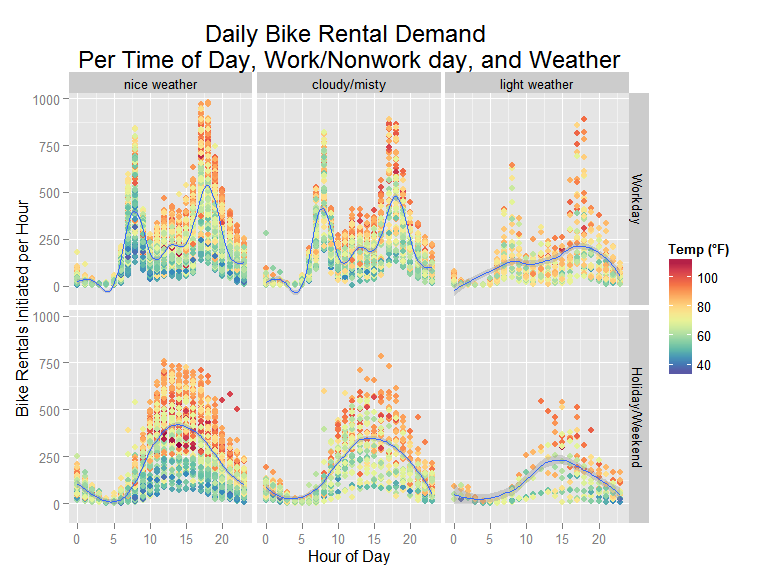
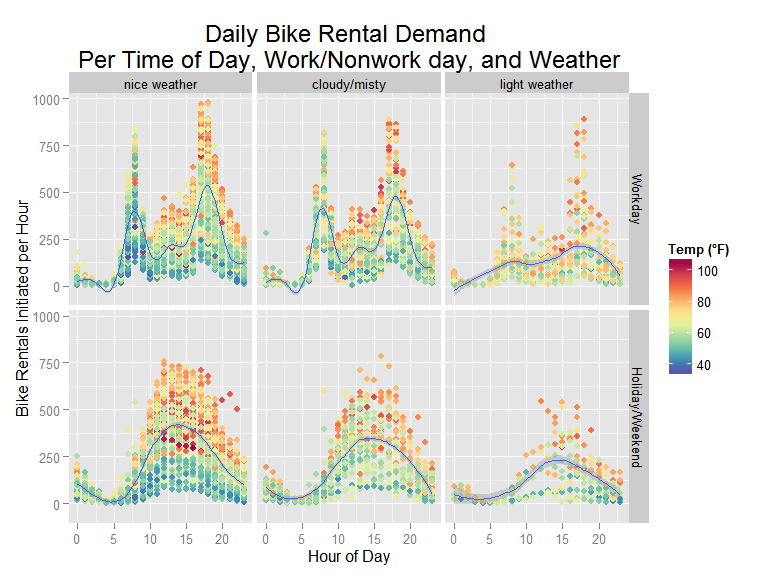
lots of stuff, completed first submission.

diff --git a/BikeShareAnalysis.md b/BikeShareAnalysis.md
@@ -22,7 +22,8 @@ library(ggplot2)
 library(ggdendro)
 library(lubridate)
 library(plyr); library(dplyr)
-source("myplclust.R")
+library(randomForest)
+library(scales)
 
 sessionInfo()
 ```
@@ -43,16 +44,17 @@ sessionInfo()
 ## [1] stats     graphics  grDevices utils     datasets  methods   base     
 ## 
 ## other attached packages:
-## [1] dplyr_0.4.1     plyr_1.8.1      lubridate_1.3.3 ggdendro_0.1-15
-## [5] ggplot2_1.0.1  
+## [1] scales_0.2.4        randomForest_4.6-10 dplyr_0.4.1        
+## [4] plyr_1.8.1          lubridate_1.3.3     ggdendro_0.1-15    
+## [7] ggplot2_1.0.1      
 ## 
 ## loaded via a namespace (and not attached):
 ##  [1] assertthat_0.1   colorspace_1.2-4 DBI_0.3.1        digest_0.6.8    
 ##  [5] evaluate_0.7     formatR_1.0      grid_3.1.3       gtable_0.1.2    
 ##  [9] htmltools_0.2.6  knitr_1.10.5     magrittr_1.5     MASS_7.3-39     
 ## [13] memoise_0.2.1    munsell_0.4.2    parallel_3.1.3   proto_0.3-10    
-## [17] Rcpp_0.11.5      reshape2_1.4.1   rmarkdown_0.3.11 scales_0.2.4    
-## [21] stringi_0.4-1    stringr_1.0.0    tools_3.1.3      yaml_2.1.13
+## [17] Rcpp_0.11.5      reshape2_1.4.1   rmarkdown_0.3.11 stringi_0.4-1   
+## [21] stringr_1.0.0    tools_3.1.3      yaml_2.1.13
 ```
 
 ```r
@@ -103,8 +105,15 @@ train <- mutate(train,
                 weather = factor(weather,levels=1:4, labels=weatherlabels),
                 dayofweek = factor(weekdays(datetime), levels=daysoftheweek),
                 timeofday = hour(datetime))
-#test <- mutate(test, ...)
-#   TODO: fill out test data later once have solid train dataset
+test <- mutate(test, 
+                datetime = ymd_hms(datetime),
+                season = factor(season, levels=1:4, labels=seasons),
+                holiday = as.logical(holiday),
+                workingday = factor(workingday, levels=c(1,0), 
+                                    labels=c("Workday","Holiday/Weekend")),
+                weather = factor(weather,levels=1:4, labels=weatherlabels),
+                dayofweek = factor(weekdays(datetime), levels=daysoftheweek),
+                timeofday = hour(datetime))
 ```
 
 Data only shows a single heavy weather point. In the midst of several light weather points. For graphing purposes, replace with light weather. Implicit assumption: bike rentals during heavy weather will be negligeable. 
@@ -123,7 +132,7 @@ print(which(test$weather == "heavy weather"))
 ```
 
 ```
-## integer(0)
+## [1]  155 3249
 ```
 
 ```r
@@ -217,20 +226,62 @@ train <- mutate(train, atemp=ifelse((atemp < 15) & (temp > 24), temp, atemp))
 test <- mutate(test, atemp=ifelse((atemp < 15) & (temp > 24), temp, atemp))
 ```
 
-It appears wind and humidity are already packaged into the 'feels like' tempurature value. The following analysis neglects temp, wind, and humidity in favor of using atemp. This leaves the weather label, time (hour of the day, day of the week), and holiday label. 
+It appears wind and humidity are already packaged into the 'feels like' tempurature value. The key is to find out how much that matters. 
 
 ## Primary demand drivers
 
+### principal component analysis (PCA)
+
+A principal component analysis (PCA) on the data shows how variation in the input data can be explained by a same-sized set of orthogonal variables. 
+
+
+```r
+tr.inputs <- select(train, datetime:windspeed)
+train.svd <- svd(scale(sapply(tr.inputs, unclass)))
+
+gg <- ggplot() + 
+    geom_bar(aes(x=1:length(train.svd$d), y=train.svd$d^2/sum(train.svd$d^2)),
+             stat="identity",
+             fill="dodgerblue") + 
+    scale_x_discrete(limits=1:length(tr.inputs)) +
+    labs(title="Feature Variance") +
+    labs(x="Orthogonal variables") +
+    labs(y="Proportion of variance explained")
+print(gg)
+```
+
+![](BikeShareAnalysis_files/figure-html/pca-1.png) 
+
+The last eigenvalue (variable 9 above) appears to contribute a negligeable amount of information to the input data. The below plot shows the components of this eigenvalue are tempurature, 'feels like' temperature, and a little of wind and humidity. This is consistent with our earlier exploration. The low eigenvalue here means that at least one of these 4 variables can be completely neglected. 
+
+
+```
+## Warning in loop_apply(n, do.ply): Stacking not well defined when ymin != 0
+```
+
+![](BikeShareAnalysis_files/figure-html/pca.atemp-1.png) 
+
+Finally, exploring the compostion of eigenvalue 1 shows that about 1.5726\times 10^{4}% of the data variation comes from datetime, season, temperature, and a little of windspeed. This means date, time, season, tempurature and to some extent wind are intertwined pieces of information, as one might expect. 
+
+
+```
+## Warning in loop_apply(n, do.ply): Stacking not well defined when ymin != 0
+```
+
+![](BikeShareAnalysis_files/figure-html/pca.season.temp-1.png) 
+
+Due to the broad spread of orgogonal data across a variety of features, an optimal solution will likely include most of the provided data, with the exception of temp/atemp. These two variables provide very little additional information between each other. 
+
 ### Effect of Time of day, weather, and working/non-working days
 
-The below plot shows the effect of time, weather, and work/nonwork days on daily rental counts. The initial idea for this plot came from [this kaggle script post](https://www.kaggle.com/users/993/ben-hamner/bike-sharing-demand/bike-rentals-by-time-and-temperature) by Ben Hamner, which has been greatly expanded here. 
+The below plot shows the effect of time, tempurature, weather, and work/nonwork days on daily rental counts. The initial idea for this plot came from [this kaggle script post](https://www.kaggle.com/users/993/ben-hamner/bike-sharing-demand/bike-rentals-by-time-and-temperature) by Ben Hamner, which has been expanded here. 
 
 
 ```r
 colors.tempurature <- c("#5e4fa2", "#3288bd", "#66c2a5", "#abdda4", "#e6f598",
                         "#fee08b", "#fdae61", "#f46d43", "#d53e4f", "#9e0142")
 
-gg <- ggplot(train, aes(timeofday, count, color=9/5*atemp+32)) +
+gg <- ggplot(train, aes(timeofday, count, color=9/5*temp+32)) +
     facet_grid(workingday ~ weather) +
     geom_point() +
     geom_smooth() +
@@ -254,25 +305,82 @@ Features to note:
 * Distincly differing shape between a work and non-work day, with 
 * Peak demand occurs in the afternoon of a warm, nice-weather, work-day.
 
-### Principal component analysis (PCA)
-
-PCA Analysis here.
-
 ## Model Development
 
-Using a staged model development approach which attempts to remove the effect of each variable in isolated steps. 
+A random forest model is a convenient method for predicting rental counts given a specified set of variables and is robust to irrelevant or overlapping features. This script is essentially a copy of Ben Hamner's submission for [What drives demand for DC bike rentals?](https://www.kaggle.com/benhamner/bike-sharing-demand/what-drives-demand-for-dc-bike-rentals). 
 
-### temperature model
 
-### Work vs. Nonwork day
+```r
+# features used is modified slightly
+train.features <- select(train, season, dayofweek, timeofday, workingday, 
+                         weather, temp, humidity, windspeed)
 
-### Weather effect
+# this is baller Hamner R code, no credit taken here.
+train.rf <- randomForest(train.features, train$count, ntree=300, importance=TRUE)
 
-### Time of day (final model)
+imp <- importance(train.rf, type=1)
+featureImportance <- data.frame(Feature=row.names(imp), Importance=imp[,1])
+
+ggplot(featureImportance, aes(x=reorder(Feature, Importance), y=Importance)) +
+     geom_bar(stat="identity", fill="#53cfff") +
+     coord_flip() + 
+     theme_light(base_size=16) +
+     xlab("") + 
+     ylab("Relative Importance") +
+     theme(plot.title   = element_text(size=18),
+           strip.text.x = element_blank(),
+           axis.text.x  = element_blank(),
+           axis.ticks.x = element_blank())
+```
+
+![](BikeShareAnalysis_files/figure-html/random.forest-1.png) 
+
+Ben also had a wonderful way to visualize the individual feature contributions using scaled partial plots of each feature and their effect on count. Again, not credit taken on my part. 
+
+
+```r
+partials <- data.frame()
+
+for (i in seq_along(names(train.features))) {
+  partial <- partialPlot(train.rf, sapply(train.features, unclass), 
+                         names(train.features)[i], 
+                         plot=FALSE)
+  xt <- rescale(partial$x)
+  partials <- rbind(partials, data.frame(x=partial$x, xt=xt, y=partial$y, 
+                                         feature=names(train.features)[i]))
+}
+
+ranges <- ddply(partials, "feature", function(d) {
+  r <- range(d$y)
+  data.frame(feature=d$feature[1], range=r[2]-r[1])
+})
+
+features_to_plot <- ranges[ranges$range>0.05*max(ranges$range),"feature"]
+
+ggplot(partials[partials$feature %in% features_to_plot,], 
+       aes(x=xt, y=y, color=feature)) +
+  geom_line(size=2) +
+  theme_light(base_size=16) +
+  xlab("Feature Range (Min to Max)") +
+  ylab("Hourly Bike Rentals") 
+```
+
+![](BikeShareAnalysis_files/figure-html/random.forest.results-1.png) 
+
+
+```r
+# TODO: move select call to separate extract_features function
+prediction <- predict(train.rf, select(test, season, dayofweek, timeofday, workingday, weather, temp, humidity, windspeed))
+
+export.df <- data.frame(datetime=test$datetime,count=prediction)
+
+write.csv(export.df,file="data/Submission2.csv", quote=FALSE, row.names=FALSE)
+```
 
 ## Future Work
 
 Items remaining for future work:
 
-* Include measured tempurature, wind, and humidity in the analysis. 
+* Include wind and humidity in the data exploration. 
+* Explore alternative prediction techniques.
 * Determine if data set is applicable to the DC weather patterns. Data appears to be from much more temperate climate which could greatly effect weather-based behavior. Theory: residents get accustomed to their "average" weather condition, adjusting outdoor activity accordingly. 
